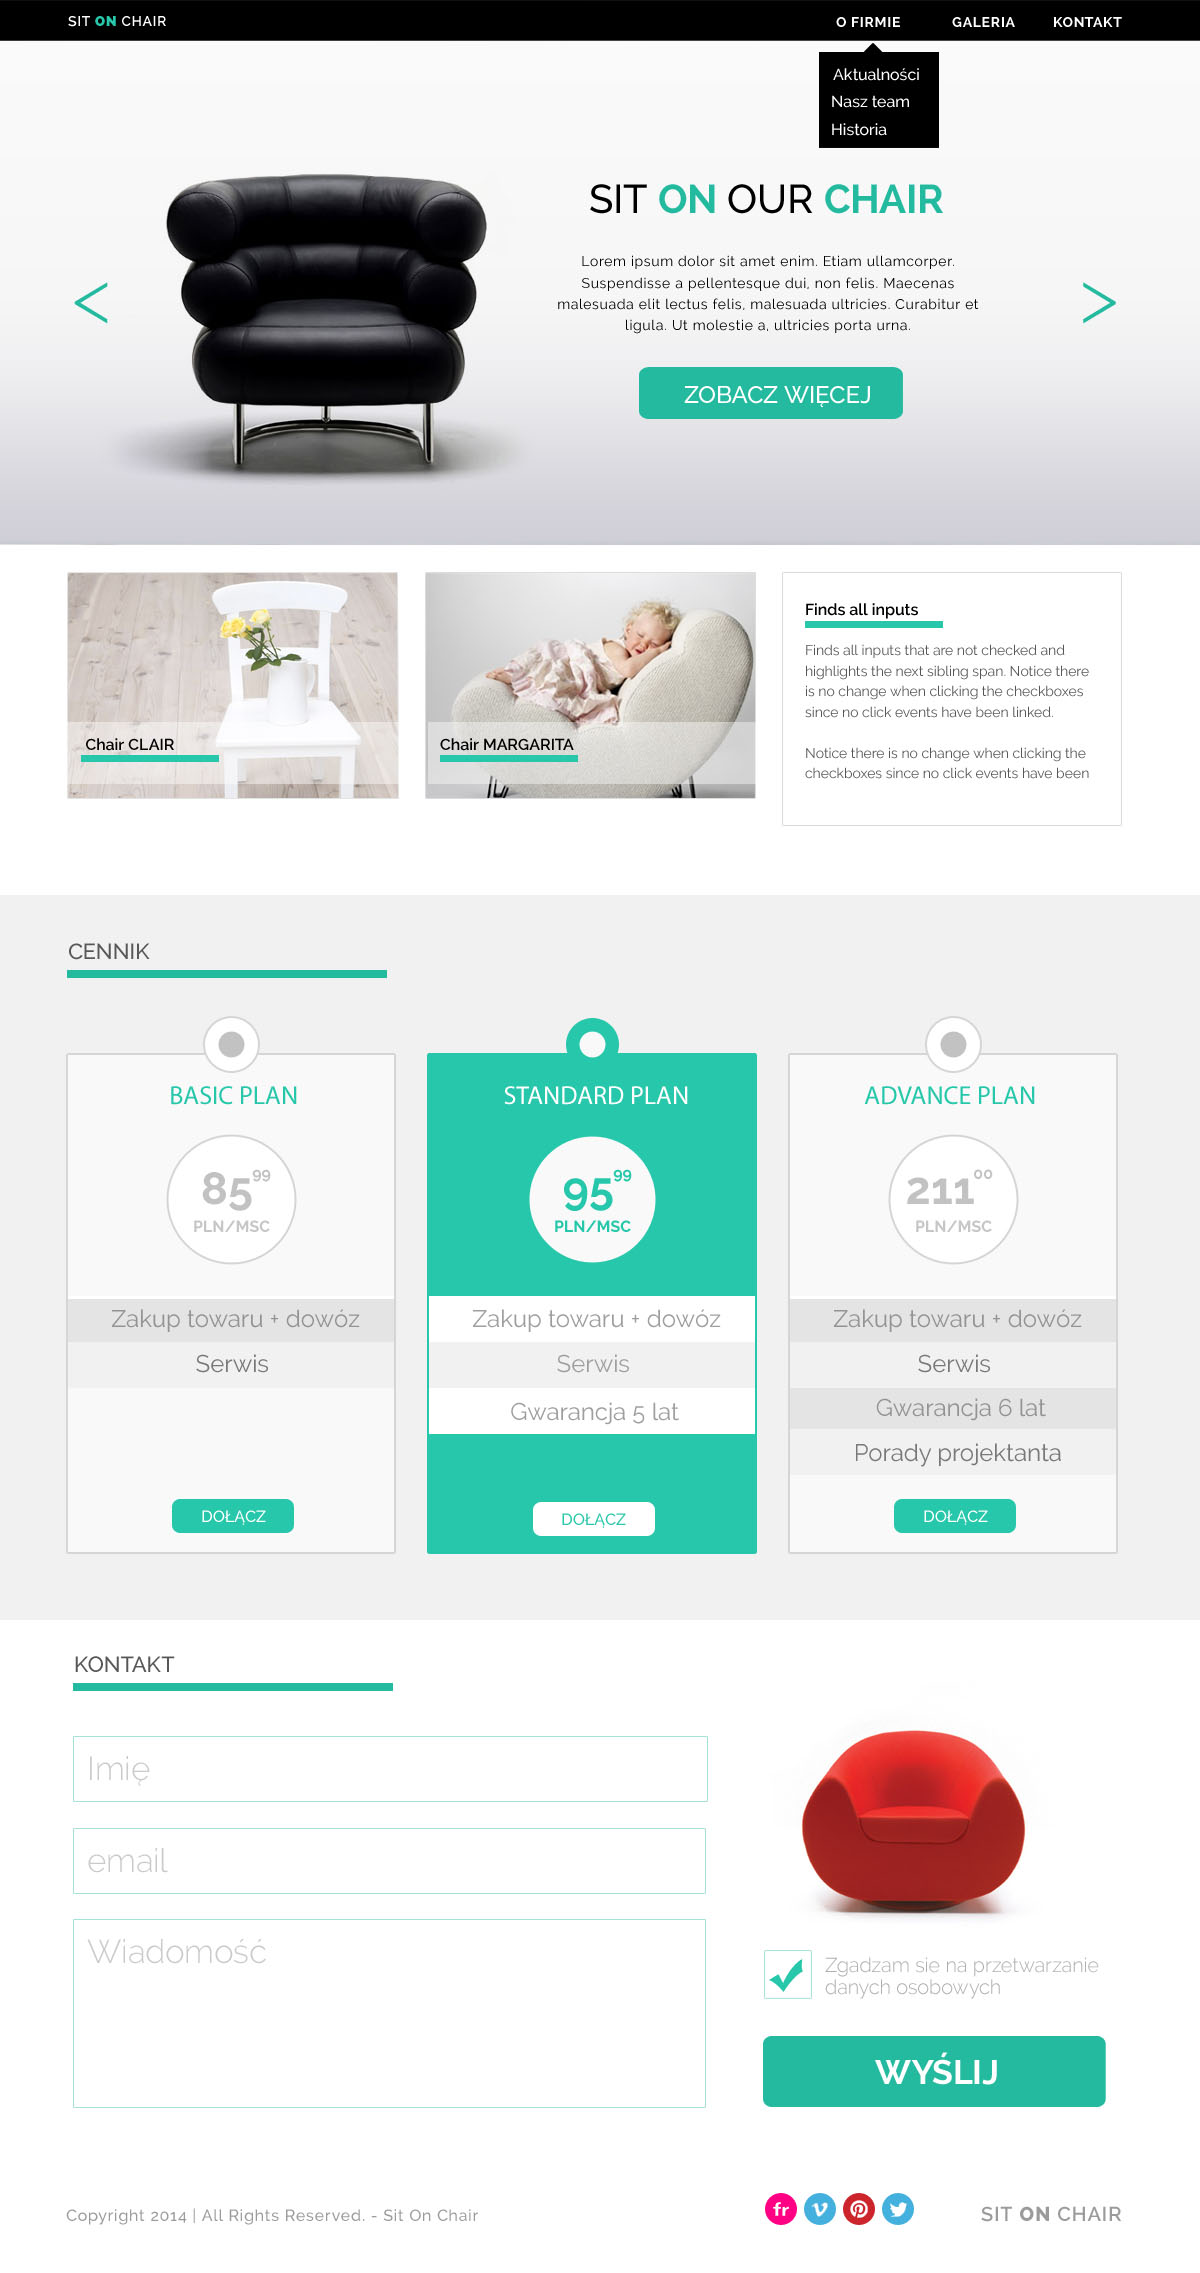
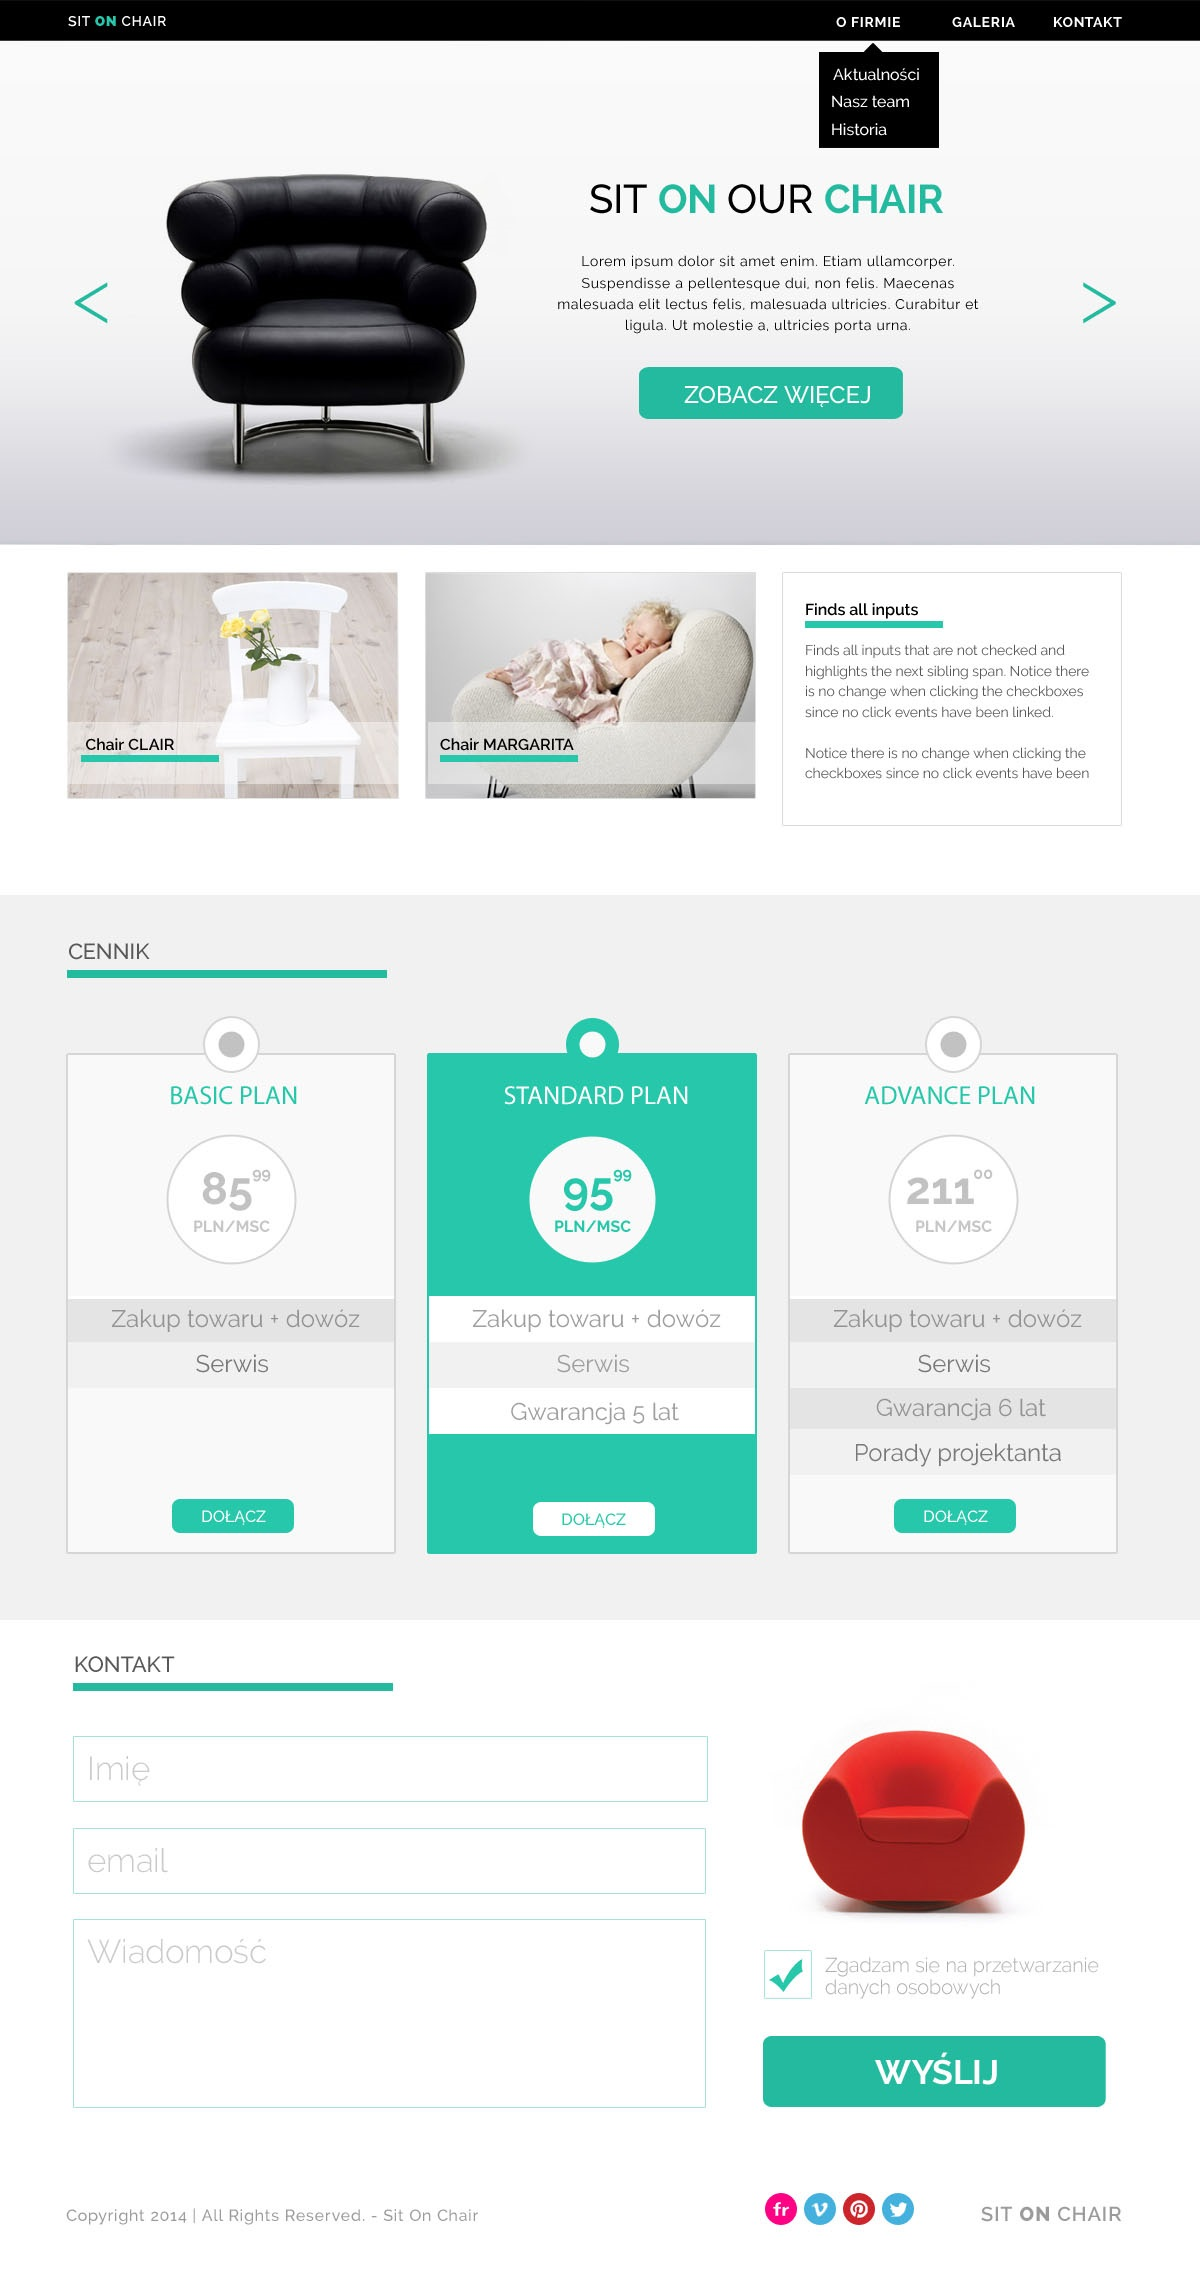
price

diff --git a/css/style.css b/css/style.css
@@ -6,10 +6,14 @@ header{
   font-family: 'ralewayregular';
 }
 
+.main_width{
+  width: 1050px;
+  margin: 0 auto;
+}
+
 .header_logo{
   float: left;
   clear: both;
-  margin-left: 60px;
   margin-top: 11px;
   font-family: 'ralewayregular';
 }
@@ -22,23 +26,24 @@ header{
 .header_ul{
   float: right;
   margin-top: 11px;
-  margin-right: 50px;
 }
 
 .header_li{
   display: inline-block;
   font-family: 'ralewaybold';
-  padding: 0 30px 0 0;
+  padding: 0 0 0 30px;
 }
 
 .header_ul_drop{
   display: none;
 }
 
-/* sekcja1 */
+/* section1 */
 .slider{
   height: 500px;
   width: 1200px;
+  position: relative;
+  font-family: 'ralewayregular';
   background: rgba(255,255,255,1);
 background: -moz-linear-gradient(top, rgba(255,255,255,1) 0%, rgba(246,246,246,1) 47%, rgba(213,213,213,1) 100%);
 background: -webkit-gradient(left top, left bottom, color-stop(0%, rgba(255,255,255,1)), color-stop(47%, rgba(246,246,246,1)), color-stop(100%, rgba(213,213,213,1)));
@@ -49,36 +54,26 @@ background: linear-gradient(to bottom, rgba(255,255,255,1) 0%, rgba(246,246,246,
 filter: progid:DXImageTransform.Microsoft.gradient( startColorstr='#ffffff', endColorstr='#d5d5d5', GradientType=0 );
 }
 
-.main_width{
-  width: 1000px;
-  margin: 0 auto;
-}
-
-.slider{
-  position: relative;
-  font-family: 'ralewayregular';
-}
-
 .slider_left{
   color: #24ba9f;
   font-family: 'ralewayregular';
-  font-size: 60px;
-  padding-top: 150px;
+  font-size: 80px;
+  padding-top: 210px;
   position: absolute;
-  padding-left: 70px;
 }
 
 .black_chair{
   float: left;
-  margin-top: 130px;
+  margin-top: 110px;
+  height: 340px;
 }
 
 .slider_div{
   float: right;
   height: 240px;
   width: 420px;
-  margin-top: 130px;
-  margin-right: 40px;
+  margin-top: 110px;
+  margin-right: 120px;
 }
 
 .slider_h1{
@@ -92,7 +87,7 @@ filter: progid:DXImageTransform.Microsoft.gradient( startColorstr='#ffffff', end
 }
 
 .slider_link{
-  height: 50px;
+  height: 35px;
   width: 260px;
   background-color: #24ba9f;
   color: white;
@@ -102,28 +97,23 @@ filter: progid:DXImageTransform.Microsoft.gradient( startColorstr='#ffffff', end
   text-decoration: none;
   font-size: 18px;
   margin-left: 80px;
-
+  padding-top: 15px;
 }
 
 .slider_right{
   color: #24ba9f;
   font-family: 'ralewayregular';
-  font-size: 60px;
-  padding-top: 150px;
+  font-size: 80px;
+  padding-top: 210px;
   position: absolute;
   right: 70px;
 }
 
 /* section2 */
 .products{
-  height: 350px;
+  height: 310px;
   width: 1200px;
   background-color: white;
-}
-
-.products_width{
-  width: 1050px;
-  margin: 0 auto;
 }
 
 .products_first, .products_second{
@@ -151,6 +141,7 @@ filter: progid:DXImageTransform.Microsoft.gradient( startColorstr='#ffffff', end
   border: 1px solid gray;
   float: right;
   margin-top: 30px;
+  border-color: #d8d8d8;
 }
 
 .border_bottom{
@@ -165,7 +156,95 @@ filter: progid:DXImageTransform.Microsoft.gradient( startColorstr='#ffffff', end
 .products_descr_par1, .products_descr_par2{
   padding: 0 20px;
   font-family: 'ralewayregular';
+  color: #787878;
 }
+
+/* section3 */
+.price{
+  height: 725px;
+  width: 1200px;
+  background-color: #f1f1f1;
+  font-family: 'ralewayregular';
+}
+
+.basic_width{
+  width: 130px;
+  margin: 0 auto;
+}
+
+.price_title{
+  border-bottom: 5px solid #24ba9f;
+  width: 320px;
+  font-family: 'ralewayregular';
+  margin-top: 40px;
+  height: 75px;
+  font-size: 21px;
+}
+
+.price_title_par{
+  padding-top: 45px;
+}
+
+.price_basic{
+  height: 500px;
+  width: 330px;
+  background-color: #f9f9f9;
+  margin-top: 80px;
+  border: 2px solid #d8d8d8;
+  position: relative;
+}
+
+.circle_color{
+  width: 25px;
+  height: 25px;
+  border-radius: 100%;
+  transform: translate(50%, 50%);
+  top: -35px;
+  left: 139px;
+  position: absolute;
+  background-color: #c3c3c3;
+  z-index: 3;
+}
+
+.circle_above{
+  width: 55px;
+  height: 55px;
+  border: 2px solid #d8d8d8;
+  border-radius: 100%;
+  transform: translateX(50%);
+  top: -40px;
+  left: 105px;
+  position: absolute;
+  background-color: white;
+}
+
+.basic_par{
+  color: #24ba9f;
+  text-align: center;
+  font-size: 22px;
+  margin-top: 25px;
+}
+
+.circle_big{
+  width: 128px;
+  height: 128px;
+  border: 2px solid #d8d8d8;
+  border-radius: 100%;
+  background-color: white;
+}
+
+.circle_big_par{
+  text-align: center;
+  color: #c3c3c3;
+  margin-top: 26px;
+  margin-left: 10px;
+}
+
+.bold{
+  font-family: 'ralewaybold';
+  font-size: 45px;
+}
+
 
 @font-face {
     font-family: 'ralewayregular';

diff --git a/index.html b/index.html
@@ -7,32 +7,34 @@
 </head>
 <body>
 <header>
-  <p class="header_logo">SIT <span class="green_on">ON</span> CHAIR</p>
-  <ul class="header_ul">
-    <li class="header_li">O FIRMIE</li>
-    <li class="header_li">GALERIA</li>
-    <li class="header_li">KONTAKT</li>
-  </ul>
-  <ul class="header_ul_drop">
-    <li class="header_li_drop">Aktualności</li>
-    <li class="header_li_drop">Nasz team</li>
-    <li class="header_li_drop">Historia</li>
-  </ul>
+  <section class="main_width">
+    <p class="header_logo">SIT <span class="green_on">ON</span> CHAIR</p>
+    <ul class="header_ul">
+      <li class="header_li">O FIRMIE</li>
+      <li class="header_li">GALERIA</li>
+      <li class="header_li">KONTAKT</li>
+    </ul>
+    <ul class="header_ul_drop">
+      <li class="header_li_drop">Aktualności</li>
+      <li class="header_li_drop">Nasz team</li>
+      <li class="header_li_drop">Historia</li>
+    </ul>
+  </section>
 </header>
 <article class="slider">
-  <div class="slider_left"> < </div>
   <section class="main_width">
+    <div class="slider_left"> < </div>
     <img src="images/black_chair.png" class="black_chair"/>
     <div class="slider_div">
       <h1 class="slider_h1">SIT <span class="green_on">ON</span> OUR <span class="green_on">CHAIR</span></h1>
       <p class="slider_par">Gummi bears jujubes sweet roll cake liquorice chocolate. Chocolate bar marzipan cupcake ice cream jujubes. Cupcake candy gingerbread. Chocolate bar jelly-o sesame snaps. Muffin chupa chups apple pie dragée.</p>
       <a href="#" class="slider_link">SEE MORE</a>
     </div>
+    <div class="slider_right"> > </div>
   </section>
-  <div class="slider_right"> > </div>
 </article>
 <article class="products">
-  <section class="products_width">
+  <section class="main_width">
     <div class="products_first">
       <img src="images/box1_img.jpg" class=""/>
       <div class="products_opa">
@@ -50,6 +52,30 @@
       <p class="products_descr_par1">Pudding wafer bonbon. Tootsie roll lollipop marshmallow toffee sugar plum cupcake tootsie roll dessert. Pastry danish icing dragée chocolate bar.</p>
       <p class="products_descr_par2">Cupcake sugar plum fruitcake cake dessert croissant. Soufflé dessert muffin.</p>
     </div>
+  </section>
+</article>
+<article class="price">
+  <section class="main_width">
+    <div class="price_title">
+      <p class="price_title_par">CENNIK</p>
+    </div>
+    <section class="price_basic">
+      <div class="basic_width">
+        <div class="circle_color"></div>
+        <div class="circle_above"></div>
+        <p class="basic_par">BASIC PLAN</p>
+        <div class="circle_big">
+          <p class="circle_big_par"><span class="bold">85</span> <sup>99</sup><br> PLN/MSC</p>
+        </div>
+        <div class="basic_tile1">
+          <p class="basic_tile1_par">Zakup towaru + dowoz</p>
+        </div>
+        <div class="basic_tile2">
+          <p class="basic_tile2_par">Serwis</p>
+        </div>
+        <a href="#" class="basic_link">JOIN</a>
+      </div>
+    </section>
   </section>
 </article>
 </body>
